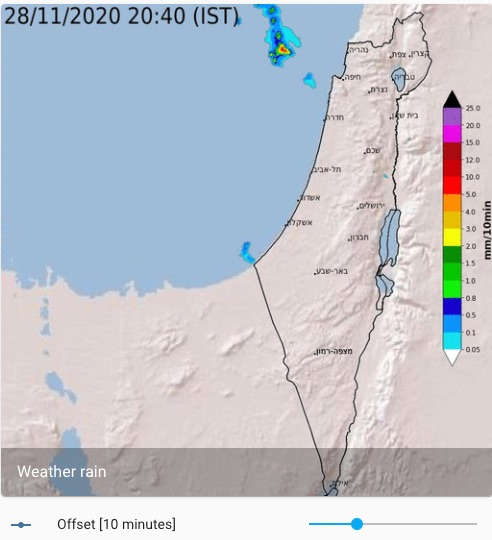
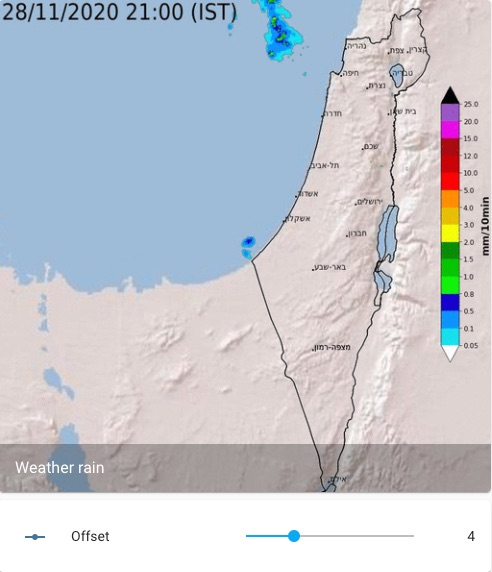
update isarel rain radar

diff --git a/israel_rain_radar/README.md b/israel_rain_radar/README.md
@@ -5,7 +5,9 @@ For changing the time offset of the image, we will use [input number](https://ww
 
 ![Rain Radar](image.jpg)
 
-The camera uses template to define the image URL
+## Entities
+
+The camera uses template to define the image URL. The template creates the time stamp of the image based on the current time and the offset set by the input number.
 
 ```yaml
 camera:
@@ -29,6 +31,20 @@ input_number:
     max: 14
     step: 1
 ```
+
+# UI
+
+```yaml
+cards:
+  - type: picture-entity
+    entity: camera.weather_rain
+    show_state: false
+  - type: entities
+    entities:
+      - entity: input_number.weather_rain_offset
+```
+
+**Note**: For slider, you can also use the custom [slider entity row](https://github.com/thomasloven/lovelace-slider-entity-row) which gives more control on the card.
 
 ---
 
